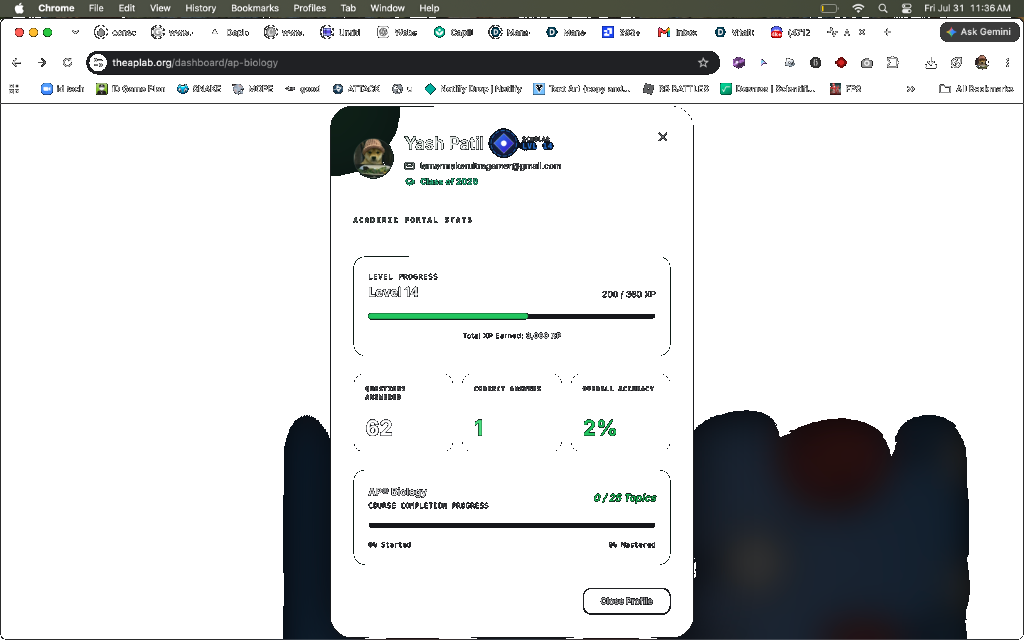
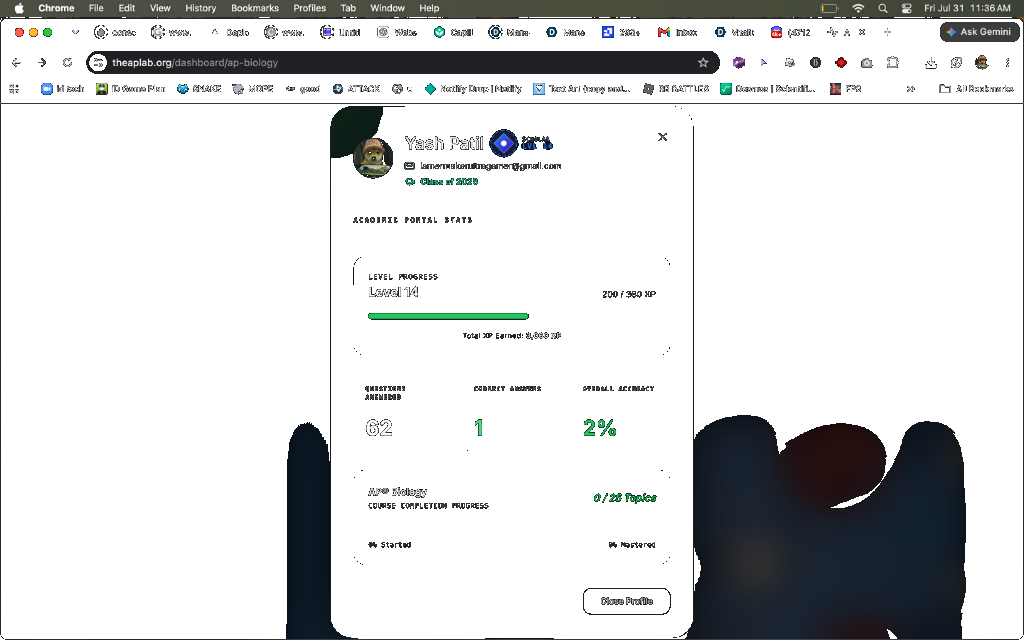
Update project files

diff --git a/src/components/UserAvatar.tsx b/src/components/UserAvatar.tsx
@@ -22,6 +22,10 @@ export function UserAvatar({ photoURL, name = "Scholar", activeFrame, size = "md
 
   const hasTopHat = activeFrame === "gear-top-hat";
   const hasPurpleBeanie = activeFrame === "gear-purple-beanie";
+  const hasPartyHat = activeFrame === "gear-purple-party-hat" || activeFrame === "gear-party-hat" || activeFrame === "party-hat";
+  const hasCrown = activeFrame === "gear-golden-crown" || activeFrame === "gear-crown" || activeFrame === "crown";
+  const hasNeonVisor = activeFrame === "gear-neon-pink-visor";
+  const hasDarkVisor = activeFrame === "gear-dark-cyber-visor" || activeFrame === "gear-sunglasses" || activeFrame === "sunglasses";
   const hasFaceMask = activeFrame === "gear-face-mask";
   const hasHeartNecklace = activeFrame === "gear-heart-necklace";
   const hasGoldChain = activeFrame === "gear-gold-chain";
@@ -30,7 +34,7 @@ export function UserAvatar({ photoURL, name = "Scholar", activeFrame, size = "md
 
   return (
     <div className={cn("relative shrink-0 flex items-center justify-center select-none", sizeClasses, className)}>
-      {/* Top Hat Wearable (Positioned above avatar head) */}
+      {/* 1. Top Hat Wearable (Positioned above avatar head) */}
       {hasTopHat && (
         <img 
           src="/images/avatar-gear/top-hat.png" 
@@ -39,12 +43,30 @@ export function UserAvatar({ photoURL, name = "Scholar", activeFrame, size = "md
         />
       )}
 
-      {/* Purple Beanie Wearable (Positioned over avatar head) */}
+      {/* 2. Purple Beanie Wearable */}
       {hasPurpleBeanie && (
         <img 
           src="/images/avatar-gear/purple-beanie.png" 
           alt="Purple Beanie" 
-          className="absolute -top-[42%] left-1/2 -translate-x-1/2 w-[110%] h-[90%] object-contain z-20 pointer-events-none drop-shadow-[0_4px_8px_rgba(0,0,0,0.6)]" 
+          className="absolute -top-[42%] left-1/2 -translate-x-1/2 w-[110%] h-[90%] object-contain z-20 pointer-events-none drop-shadow-md" 
+        />
+      )}
+
+      {/* 3. Purple Party Hat Wearable */}
+      {hasPartyHat && (
+        <img 
+          src="/images/avatar-gear/purple-party-hat.png" 
+          alt="Party Hat" 
+          className="absolute -top-[55%] left-1/2 -translate-x-1/2 w-[105%] h-[95%] object-contain z-20 pointer-events-none drop-shadow-md" 
+        />
+      )}
+
+      {/* 4. Golden Crown Wearable */}
+      {hasCrown && (
+        <img 
+          src="/images/avatar-gear/golden-crown.png" 
+          alt="Golden Crown" 
+          className="absolute -top-[36%] left-1/2 -translate-x-1/2 w-[105%] h-[75%] object-contain z-20 pointer-events-none drop-shadow-md" 
         />
       )}
 
@@ -58,17 +80,35 @@ export function UserAvatar({ photoURL, name = "Scholar", activeFrame, size = "md
           </div>
         )}
 
-        {/* Face Mask Wearable (Positioned over lower face/mouth) */}
+        {/* 5. Neon Pink Cyber Visor (Positioned over eyes) */}
+        {hasNeonVisor && (
+          <img 
+            src="/images/avatar-gear/neon-pink-visor.png" 
+            alt="Neon Pink Visor" 
+            className="absolute top-[25%] left-1/2 -translate-x-1/2 w-[90%] h-[50%] object-contain z-10 pointer-events-none drop-shadow-[0_0_10px_rgba(236,72,153,0.8)]" 
+          />
+        )}
+
+        {/* 6. Dark Cyber Visor / Sunglasses */}
+        {hasDarkVisor && (
+          <img 
+            src="/images/avatar-gear/dark-cyber-visor.png" 
+            alt="Dark Cyber Visor" 
+            className="absolute top-[25%] left-1/2 -translate-x-1/2 w-[90%] h-[50%] object-contain z-10 pointer-events-none drop-shadow-md" 
+          />
+        )}
+
+        {/* 7. Face Mask Wearable (Positioned over lower face/mouth) */}
         {hasFaceMask && (
           <img 
             src="/images/avatar-gear/face-mask.png" 
             alt="Face Mask" 
-            className="absolute top-[35%] left-1/2 -translate-x-1/2 w-[85%] h-[60%] object-contain z-10 pointer-events-none drop-shadow-md" 
+            className="absolute top-[38%] left-1/2 -translate-x-1/2 w-[85%] h-[60%] object-contain z-10 pointer-events-none drop-shadow-md" 
           />
         )}
       </div>
 
-      {/* Heart Necklace (Hanging below avatar) */}
+      {/* 8. Heart Necklace (Hanging below avatar) */}
       {hasHeartNecklace && (
         <img 
           src="/images/avatar-gear/heart-necklace.png" 
@@ -77,7 +117,7 @@ export function UserAvatar({ photoURL, name = "Scholar", activeFrame, size = "md
         />
       )}
 
-      {/* Gold Chain (Hanging below avatar) */}
+      {/* 9. Gold Chain (Hanging below avatar) */}
       {hasGoldChain && (
         <img 
           src="/images/avatar-gear/gold-chain.png" 

diff --git a/src/app/shop/page.tsx b/src/app/shop/page.tsx
@@ -6,7 +6,7 @@ import { useRouter } from "next/navigation";
 import { motion, AnimatePresence } from "framer-motion";
 import { 
   ShoppingBag, Sparkles, Trophy, LogOut, Home, LayoutDashboard, BarChart2, Star, Award, 
-  CheckCircle2, RotateCw, Crown, Palette, Dices, Activity, ArrowRight, Flame, Tag, Layers, Glasses, HardHat, Shield, X, PauseCircle, Wrench, RefreshCw, Zap, Stars
+  CheckCircle2, RotateCw, Crown, Palette, Dices, Activity, ArrowRight, Flame, Tag, Layers, Glasses, HardHat, Shield, X, PauseCircle, Wrench, RefreshCw, Zap, Stars, Package
 } from "lucide-react";
 import { useAuth } from "@/context/AuthContext";
 import { useProgress } from "@/context/ProgressContext";
@@ -58,7 +58,7 @@ function SidebarSettingsButton({ open }: { open: boolean }) {
   );
 }
 
-// Custom Premium Shop Items (Boosters, Avatar Gear & Custom Name Color)
+// Custom Premium Shop Items (Boosters, Transparent PNG Gear & Custom Name Color)
 const GEAR_ITEMS = [
   // 10-Hour Boost Powerups
   { 
@@ -432,25 +432,25 @@ export default function ShopPage() {
         {/* Shop Main Content Area */}
         <main className="max-w-6xl mx-auto w-full px-6 sm:px-10 py-8 space-y-10 flex-1 text-left">
           
-          {/* Top Banner using SHOPbanner.png with text positioned further right into open space */}
+          {/* Top Banner using SHOPbanner.png with text spread out horizontally to the right */}
           <div 
-            className="relative w-full rounded-3xl bg-cover bg-center p-8 sm:p-12 text-neutral-950 overflow-hidden shadow-2xl flex flex-col justify-center min-h-[240px]"
+            className="relative w-full rounded-3xl bg-cover bg-center p-8 sm:p-12 text-neutral-950 overflow-hidden shadow-2xl flex flex-col justify-center min-h-[260px]"
             style={{ backgroundImage: `url('/images/SHOPbanner.png')` }}
           >
-            <div className="relative z-10 max-w-sm sm:max-w-md mr-auto space-y-3.5 text-left pl-28 sm:pl-48">
-              <h2 className="font-manrope text-3xl sm:text-4xl font-extrabold tracking-tight text-neutral-900 leading-tight">
+            <div className="relative z-10 max-w-xl sm:max-w-2xl mr-auto space-y-4 text-left pl-32 sm:pl-56 md:pl-64">
+              <h2 className="font-manrope text-3xl sm:text-4xl md:text-5xl font-extrabold tracking-tight text-neutral-900 leading-tight">
                 Redeem coins for exclusive gear
               </h2>
-              <p className="text-sm font-semibold text-neutral-800 font-manrope">
+              <p className="text-base font-bold text-neutral-800 font-manrope tracking-wide">
                 Get power ups, avatars, and customization hats & gear.
               </p>
-              <div className="pt-1">
+              <div className="pt-2">
                 <button 
                   onClick={() => setShowInventoryModal(true)}
-                  className="px-7 py-3.5 rounded-full bg-neutral-950 hover:bg-neutral-800 text-white font-manrope font-extrabold text-xs transition-all cursor-pointer shadow-xl flex items-center space-x-2"
+                  className="px-8 py-3.5 rounded-full bg-neutral-950 hover:bg-neutral-800 text-white font-manrope font-extrabold text-xs transition-all cursor-pointer shadow-xl flex items-center space-x-2.5"
                 >
-                  <ShoppingBag className="w-4 h-4 text-amber-400" />
-                  <span>My Inventory</span>
+                  <Package className="w-4.5 h-4.5 text-white" />
+                  <span className="text-white">My Inventory</span>
                 </button>
               </div>
             </div>

diff --git a/src/components/MinecraftInventoryModal.tsx b/src/components/MinecraftInventoryModal.tsx
@@ -37,10 +37,16 @@ export function MinecraftInventoryModal({ isOpen, onClose }: MinecraftInventoryM
   const getItemDetails = (id: string) => {
     if (id === "boost-2x-xp") return { name: "2x XP Boost", type: "boost", desc: "Grants 2x Double XP for 10 hours", icon: "/images/2x-xp-boost.png" };
     if (id === "boost-2x-coin") return { name: "2x Coin Boost", type: "boost", desc: "Grants 2x Double Coins for 10 hours", icon: "/images/2x-coin-boost.png" };
-    if (id === "gear-sunglasses") return { name: "Sunglasses", type: "sunglasses", desc: "Cool shades wearable", icon: "🕶" };
-    if (id === "gear-wizardhat") return { name: "Wizard Hat", type: "hat", desc: "Arcane wizard hat wearable", icon: "🧙♂" };
-    if (id === "grad-fire") return { name: "Phoenix Fire", type: "gradient", desc: "Fiery red & orange name gradient", icon: "🔥" };
-    if (id === "grad-holographic") return { name: "Holo Gradient", type: "gradient", desc: "Holographic multi-color name gradient", icon: "🌈" };
+    if (id === "gear-top-hat") return { name: "Top Hat", type: "frame", desc: "Black magician top hat", icon: "/images/avatar-gear/top-hat.png" };
+    if (id === "gear-purple-beanie") return { name: "Purple Beanie", type: "frame", desc: "Winter beanie with pom pom", icon: "/images/avatar-gear/purple-beanie.png" };
+    if (id === "gear-purple-party-hat") return { name: "Purple Party Hat", type: "frame", desc: "Striped party cone hat", icon: "/images/avatar-gear/purple-party-hat.png" };
+    if (id === "gear-golden-crown") return { name: "Golden Crown", type: "frame", desc: "24k gold scholar crown", icon: "/images/avatar-gear/golden-crown.png" };
+    if (id === "gear-neon-pink-visor") return { name: "Cyber Neon Visor", type: "frame", desc: "Futuristic pink visor glasses", icon: "/images/avatar-gear/neon-pink-visor.png" };
+    if (id === "gear-dark-cyber-visor") return { name: "Dark Cyber Visor", type: "frame", desc: "Tactical dark sunglasses", icon: "/images/avatar-gear/dark-cyber-visor.png" };
+    if (id === "gear-face-mask") return { name: "Face Mask", type: "frame", desc: "Blue surgical face mask", icon: "/images/avatar-gear/face-mask.png" };
+    if (id === "gear-heart-necklace") return { name: "Heart Necklace", type: "frame", desc: "Pink gem heart pendant", icon: "/images/avatar-gear/heart-necklace.png" };
+    if (id === "gear-gold-chain") return { name: "Gold Chain", type: "frame", desc: "24k gold Cuban link chain", icon: "/images/avatar-gear/gold-chain.png" };
+    if (id === "custom-name-color") return { name: "Custom Name Color", type: "color-picker", desc: "Custom display name color", icon: "🎨" };
     return { name: id.replace("gear-", "").replace("frame-", ""), type: "item", desc: "Cosmetic Item", icon: "🛡" };
   };
 
